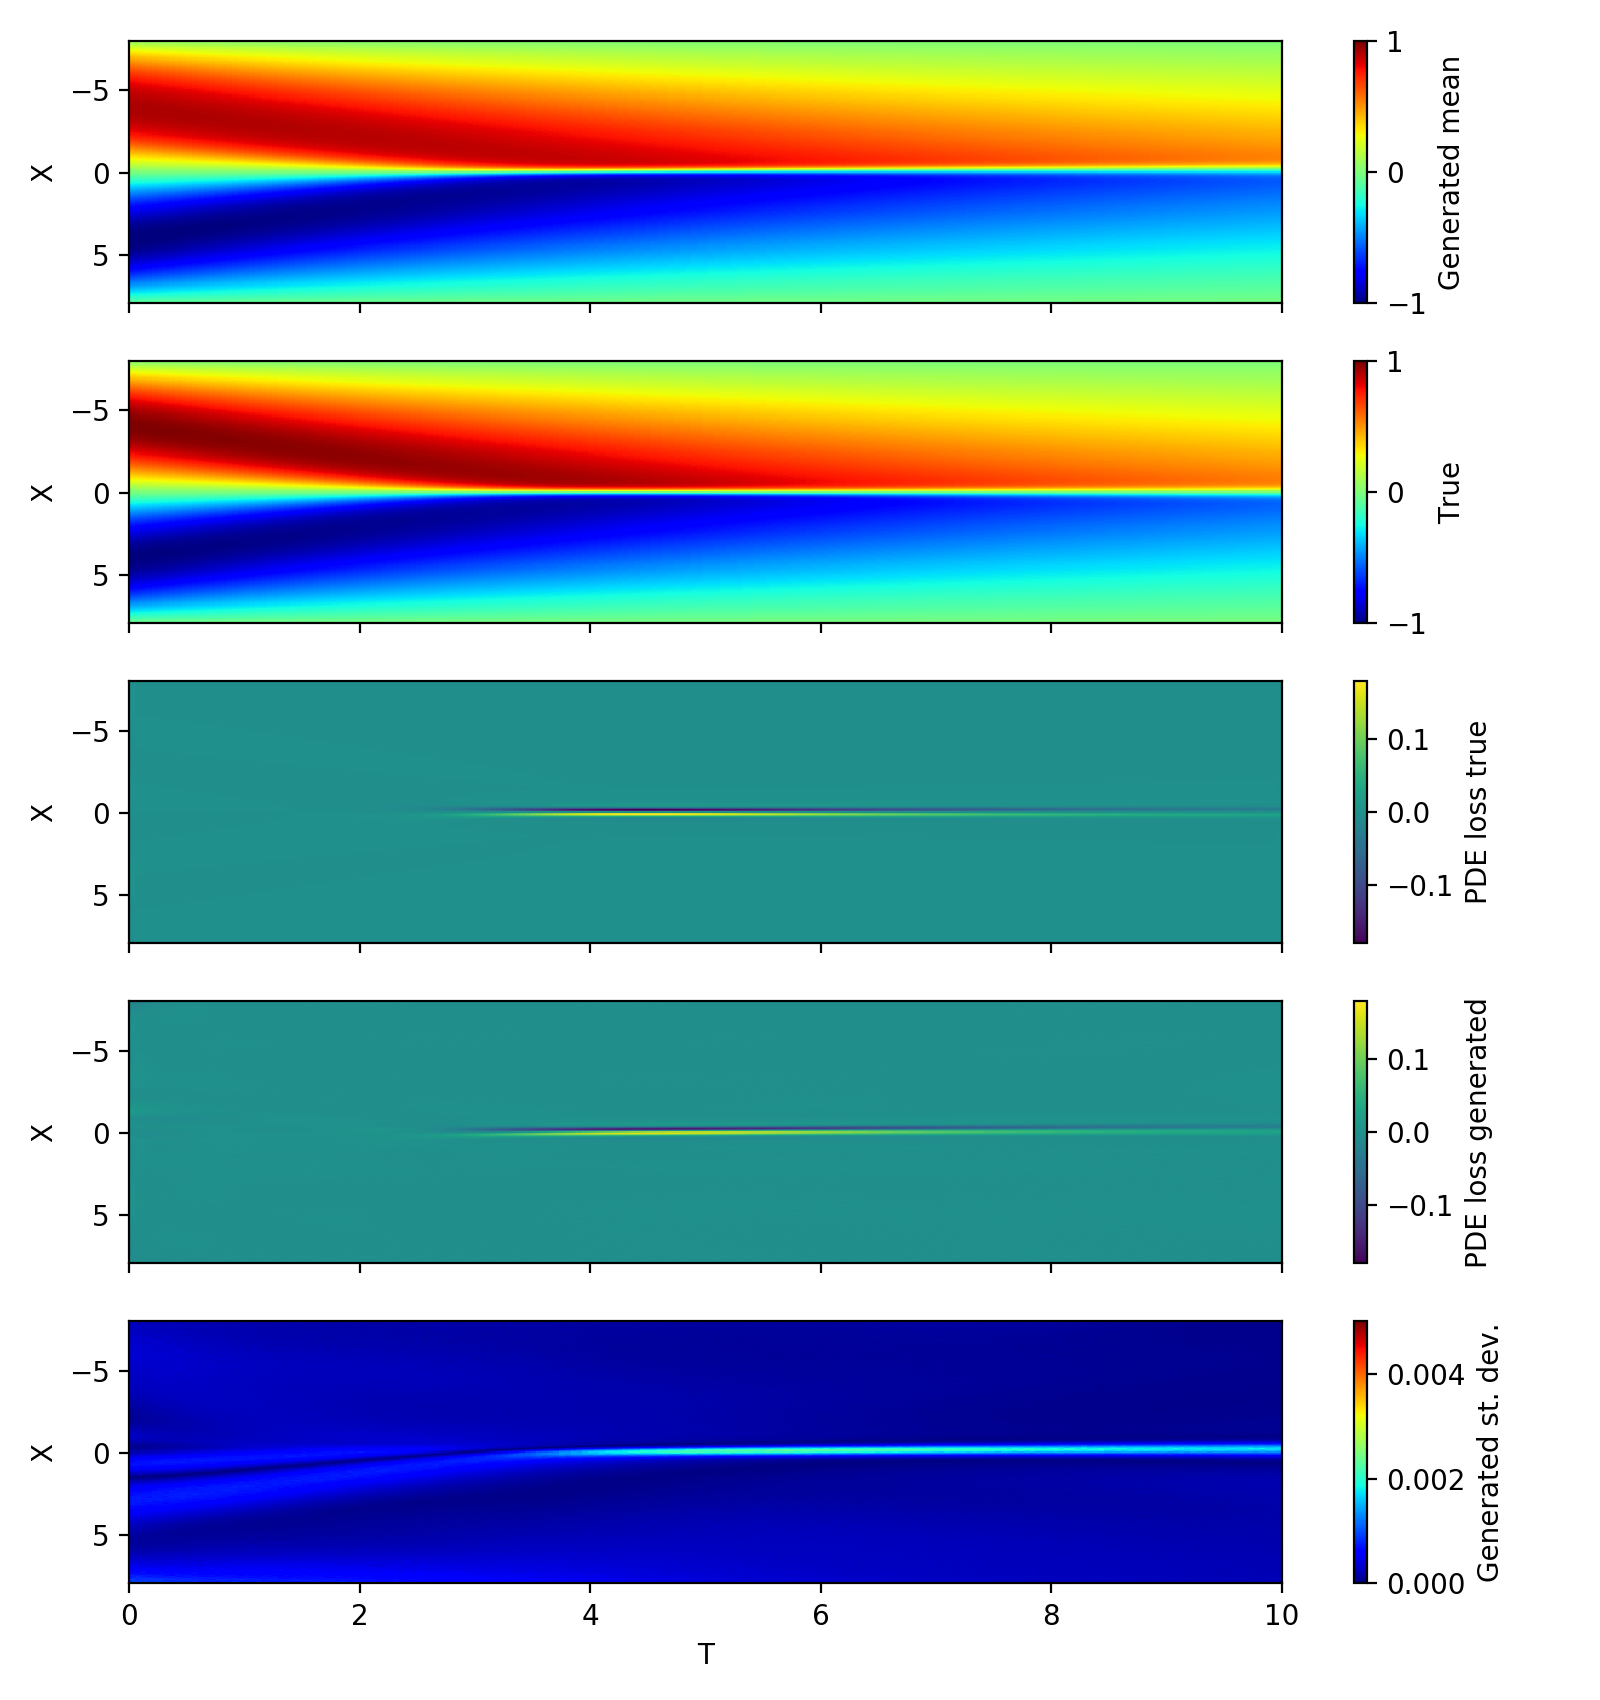
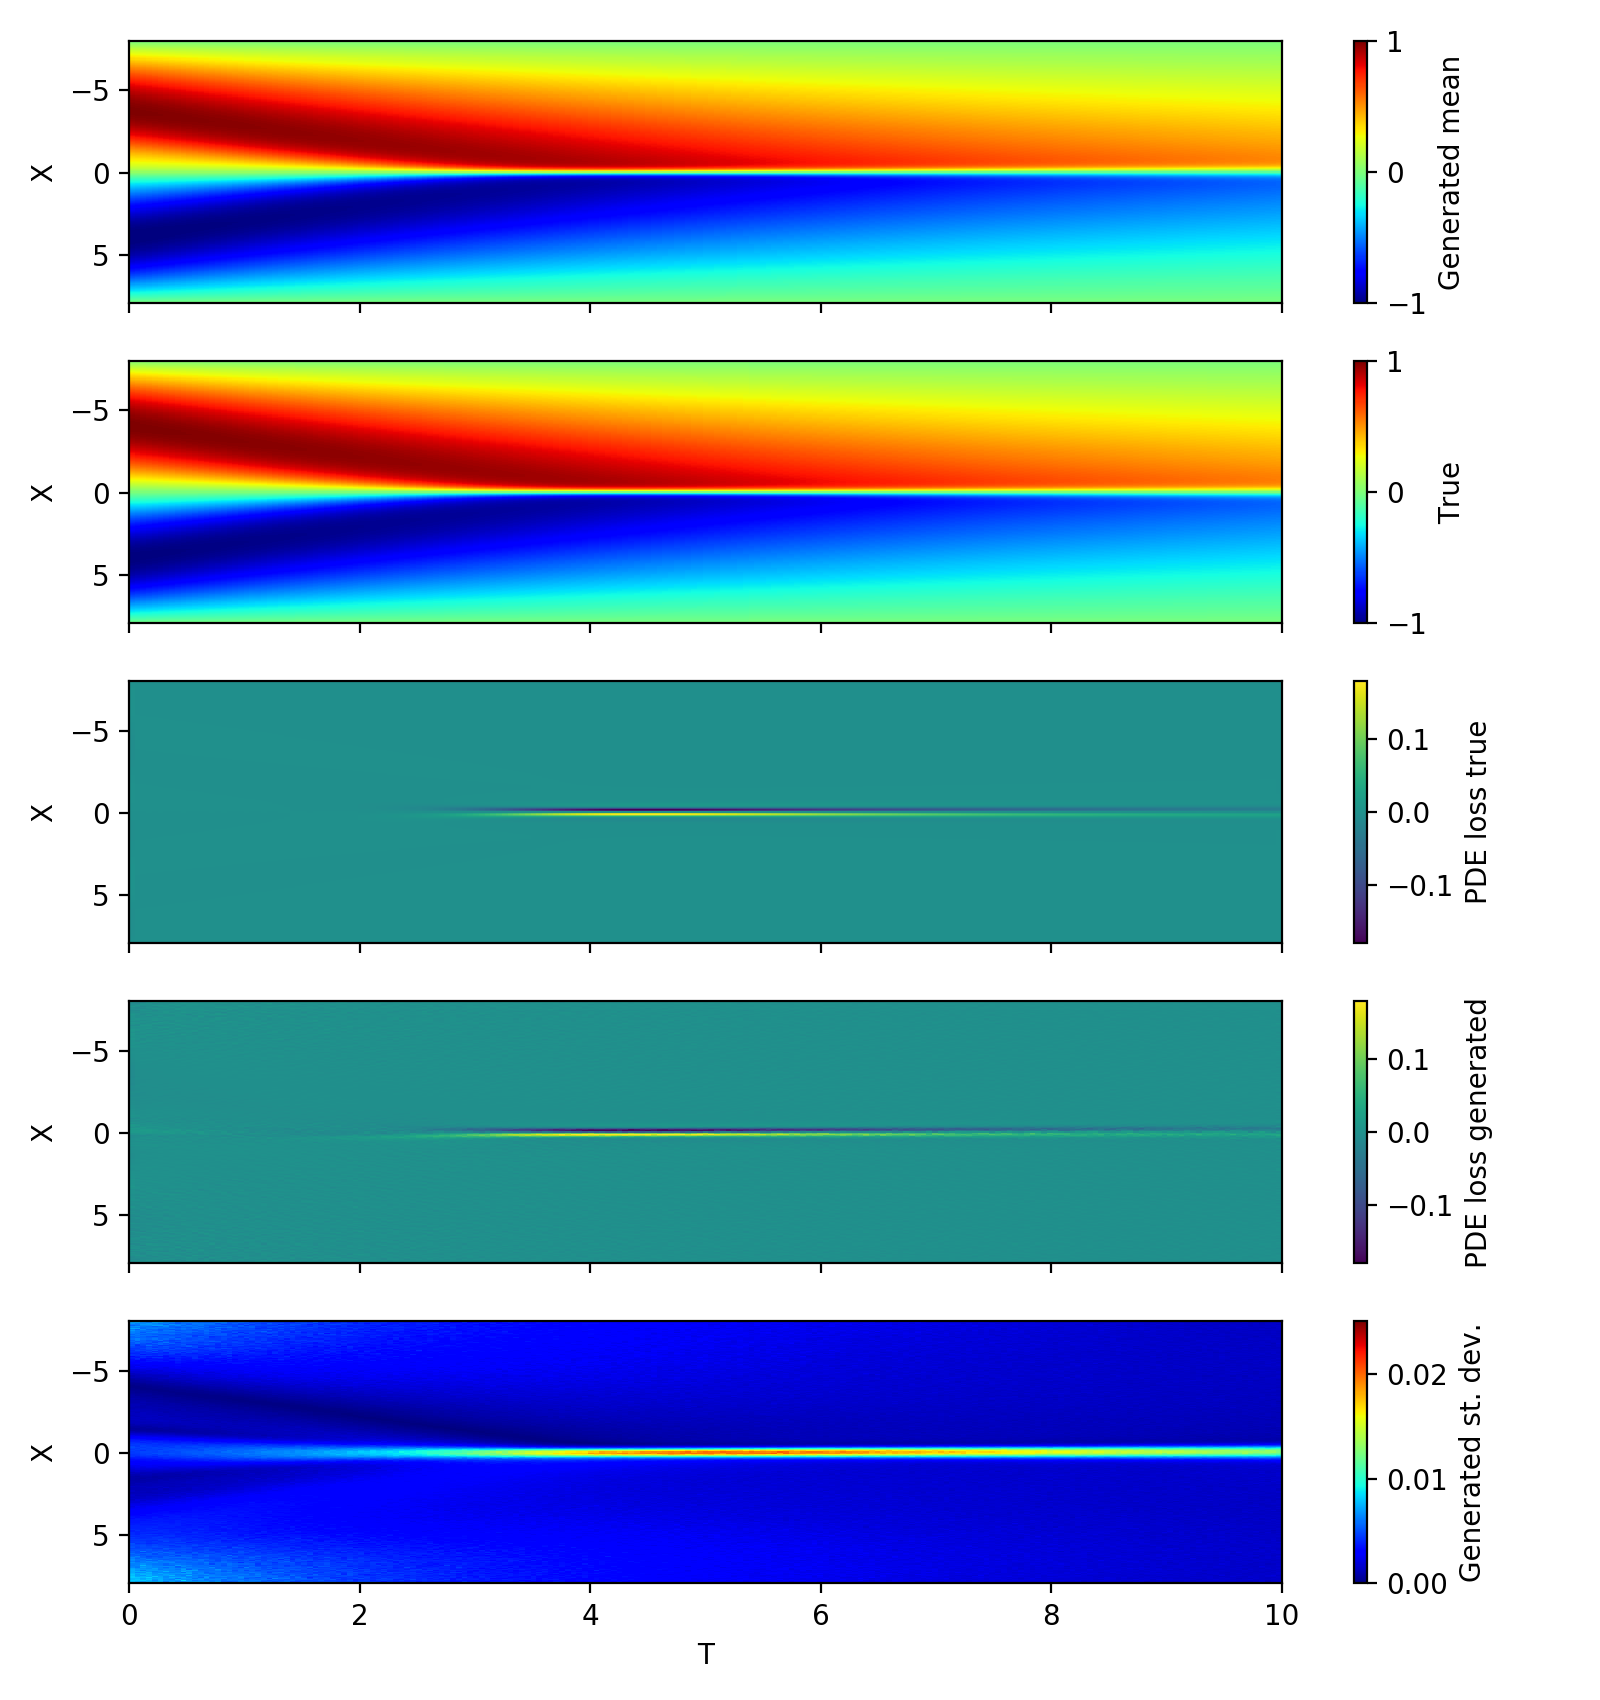
Updated demo figures to reflect recent data changes.

diff --git a/demo/burgers/view_predictions.py b/demo/burgers/view_predictions.py
@@ -50,7 +50,7 @@ def main():
     im5 = ax5.imshow(std, aspect='auto', cmap='jet', extent=extent)
     im1.set_clim(im2.get_clim())
     im4.set_clim(im3.get_clim())
-    im5.set_clim(0, 0.005)
+    im5.set_clim(0, 0.025)
 
     # Colorbars
     cbar1 = plt.colorbar(im1, ax=ax1)
